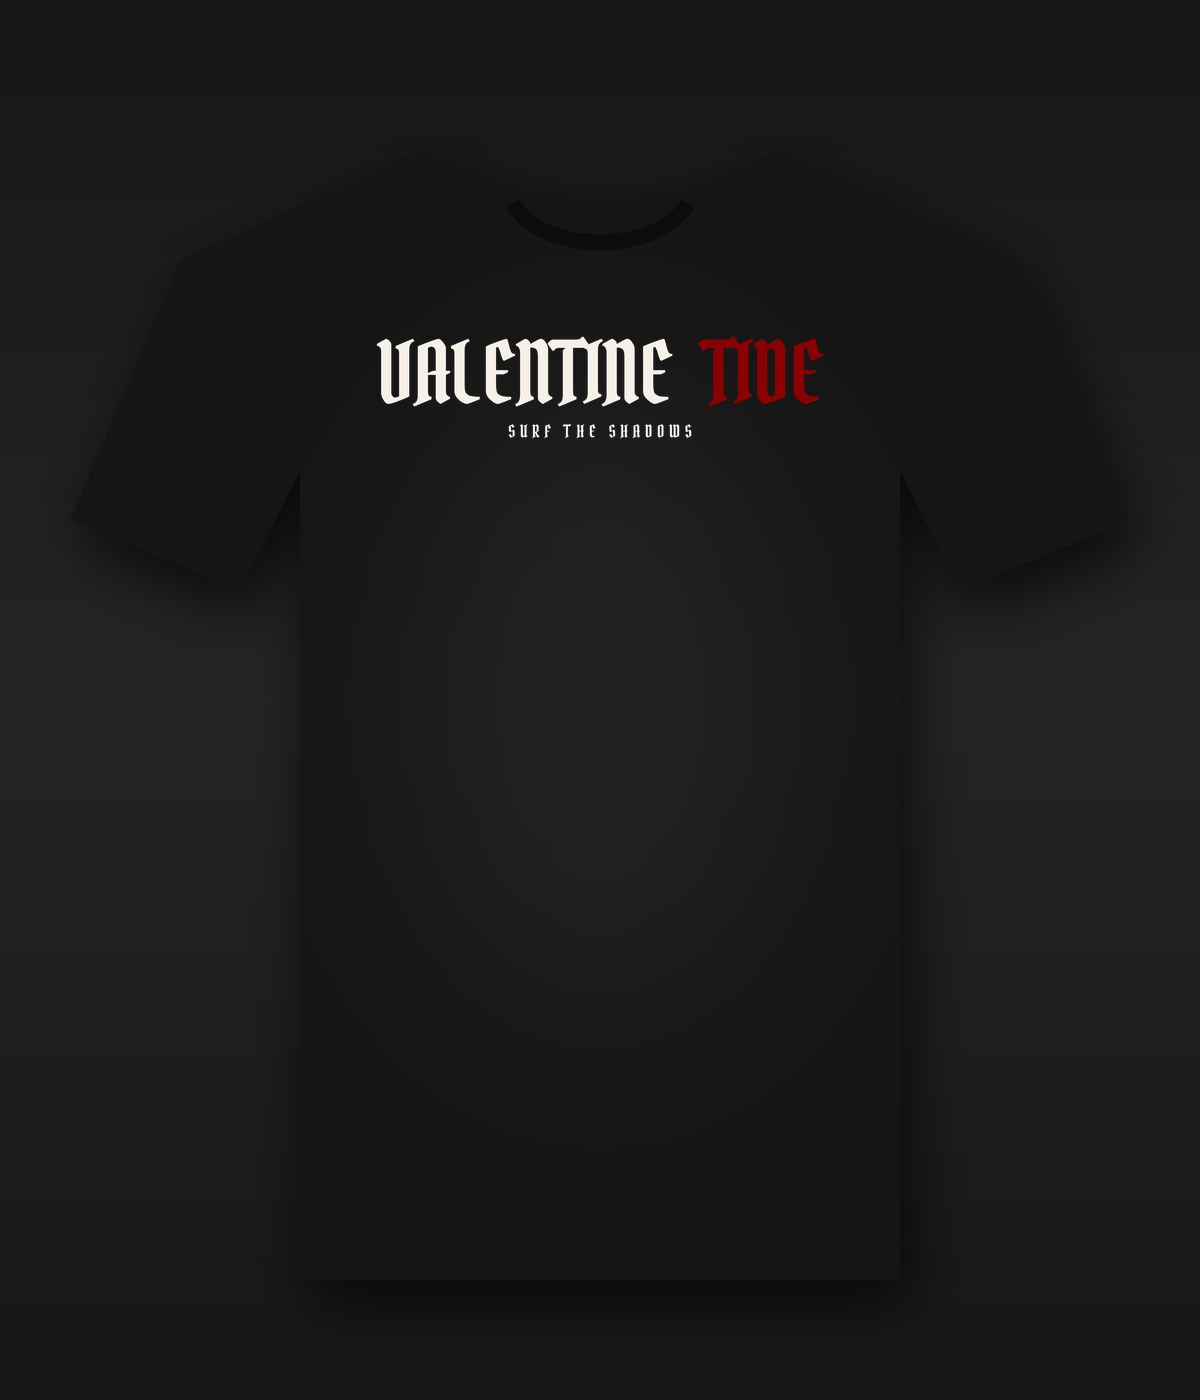
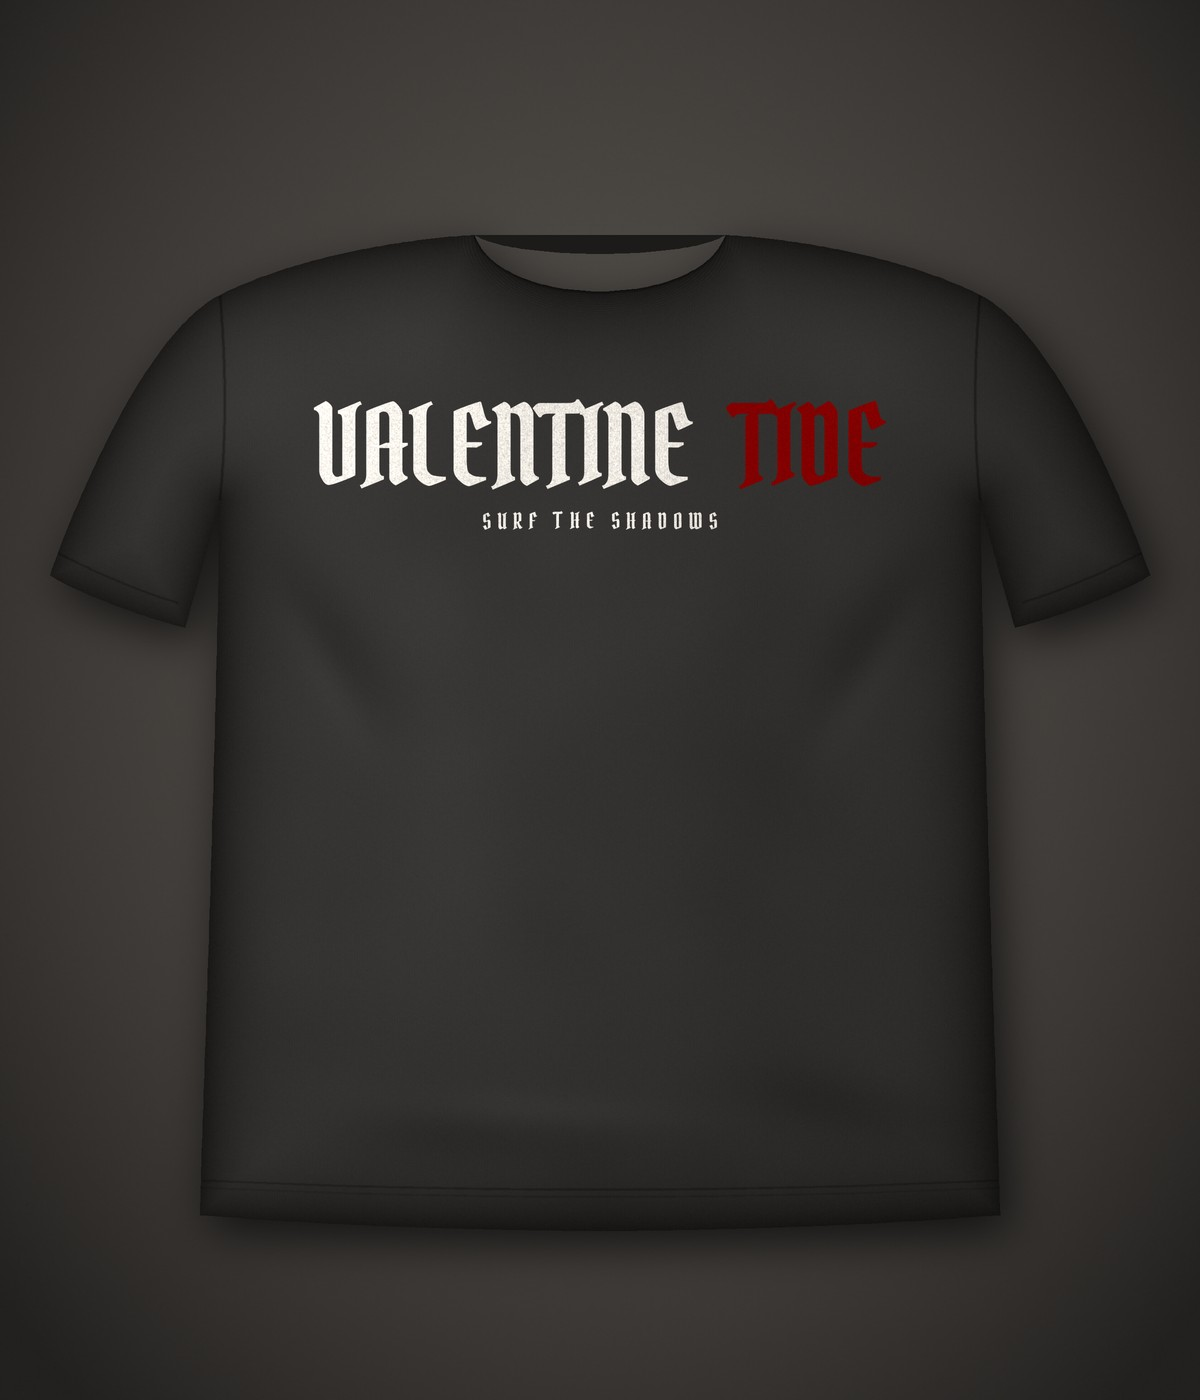
Better tee display: realistic mockup, print close up, gallery with hover zoom
Adds fabric and fit details to the product card and keeps the buy panel in
view while scrolling on desktop.

diff --git a/shop.js b/shop.js
@@ -37,18 +37,40 @@
   });
 
   function renderProduct(p) {
+    const gallery = p.gallery && p.gallery.length ? p.gallery : [{ src: p.image, alt: `${p.name}, ${p.subtitle}` }];
     const ready = cfg.SHOP_PREVIEW || p.variants.some((v) => v.printfulSyncVariantId);
     const el = document.createElement("article");
     el.className = "product";
     el.innerHTML = `
-      <div class="product__media">
-        <img src="${p.image}" alt="${esc(p.name)}, ${esc(p.subtitle)}" width="1200" height="1400" loading="lazy" />
+      <div class="product__gallery">
+        <div class="product__media" data-zoom>
+          <img class="product__img" src="${gallery[0].src}" alt="${esc(gallery[0].alt)}" width="1200" height="1400" />
+        </div>
+        ${
+          gallery.length > 1
+            ? `<div class="product__thumbs" role="list">
+                ${gallery
+                  .map(
+                    (g, i) => `
+                  <button class="thumb${i === 0 ? " is-active" : ""}" type="button" role="listitem" data-index="${i}" aria-label="Show ${esc(g.alt)}" ${i === 0 ? 'aria-current="true"' : ""}>
+                    <img src="${g.src}" alt="" width="1200" height="1400" loading="lazy" />
+                  </button>`
+                  )
+                  .join("")}
+              </div>`
+            : ""
+        }
       </div>
       <div class="product__info">
         <h3 class="product__name">${esc(p.name)}</h3>
         <p class="product__sub">${esc(p.subtitle)}</p>
         <p class="product__price" data-price>${money(p.priceCents)}</p>
         <p class="product__desc">${esc(p.description)}</p>
+        ${
+          p.details && p.details.length
+            ? `<ul class="product__details">${p.details.map((d) => `<li>${esc(d)}</li>`).join("")}</ul>`
+            : ""
+        }
 
         <fieldset class="sizes">
           <legend class="sizes__legend">Size</legend>
@@ -77,6 +99,8 @@
         </div>
         <p class="form-status buy__status" role="status" aria-live="polite"></p>
       </div>`;
+
+    wireGallery(el, gallery);
 
     const priceEl = el.querySelector("[data-price]");
     const status = el.querySelector(".buy__status");
@@ -120,6 +144,34 @@
     });
 
     return el;
+  }
+
+  /* Thumbnails swap the main image; on devices with a mouse, hovering zooms in
+     toward the cursor so the print texture is visible. */
+  function wireGallery(el, gallery) {
+    const main = el.querySelector(".product__img");
+    const frame = el.querySelector("[data-zoom]");
+
+    el.querySelectorAll(".thumb").forEach((btn) => {
+      btn.addEventListener("click", () => {
+        const g = gallery[Number(btn.dataset.index)];
+        main.src = g.src;
+        main.alt = g.alt;
+        el.querySelectorAll(".thumb").forEach((b) => {
+          b.classList.toggle("is-active", b === btn);
+          if (b === btn) b.setAttribute("aria-current", "true");
+          else b.removeAttribute("aria-current");
+        });
+      });
+    });
+
+    if (!window.matchMedia("(hover: hover) and (pointer: fine)").matches) return;
+    frame.addEventListener("mousemove", (e) => {
+      const r = frame.getBoundingClientRect();
+      main.style.transformOrigin = `${((e.clientX - r.left) / r.width) * 100}% ${((e.clientY - r.top) / r.height) * 100}%`;
+    });
+    frame.addEventListener("mouseenter", () => frame.classList.add("is-zoomed"));
+    frame.addEventListener("mouseleave", () => frame.classList.remove("is-zoomed"));
   }
 
   function esc(s) {

diff --git a/styles.css b/styles.css
@@ -472,14 +472,78 @@ p {
   align-items: start;
 }
 
-.product__media {
-  background-color: #1e1d1c;
-  border: 1px solid var(--bone-faint);
+.product__gallery {
+  display: grid;
+  gap: 0.75rem;
 }
 
-.product__media img {
+.product__media {
+  position: relative;
+  overflow: hidden;
+  background-color: #2b2927;
+}
+
+.product__img {
   width: 100%;
   height: auto;
+  transition: transform 0.35s ease;
+}
+
+.product__media.is-zoomed {
+  cursor: zoom-in;
+}
+
+.product__media.is-zoomed .product__img {
+  transform: scale(1.8);
+}
+
+.product__thumbs {
+  display: flex;
+  gap: 0.75rem;
+}
+
+.thumb {
+  flex: 0 0 5.5rem;
+  padding: 0;
+  background: none;
+  border: 1px solid var(--bone-faint);
+  cursor: pointer;
+  opacity: 0.6;
+  transition: opacity 0.18s ease, border-color 0.18s ease;
+}
+
+.thumb:hover {
+  opacity: 0.9;
+}
+
+.thumb.is-active {
+  opacity: 1;
+  border-color: var(--blood-bright);
+}
+
+.thumb img {
+  width: 100%;
+  height: auto;
+}
+
+.product__details {
+  margin: 1.25rem 0 0;
+  padding: 0;
+  list-style: none;
+  display: grid;
+  gap: 0.4rem;
+  font-size: 0.85rem;
+  color: var(--bone-dim);
+}
+
+.product__details li::before {
+  content: "";
+  display: inline-block;
+  width: 0.35rem;
+  height: 0.35rem;
+  margin: 0 0.65rem 0.15rem 0;
+  background-color: var(--blood-bright);
+  transform: rotate(45deg);
 }
 
 .product__name {
@@ -595,6 +659,11 @@ p {
 @media (min-width: 48rem) {
   .product {
     grid-template-columns: 1.1fr 1fr;
+  }
+
+  .product__info {
+    position: sticky;
+    top: 2rem;
   }
 }
 
